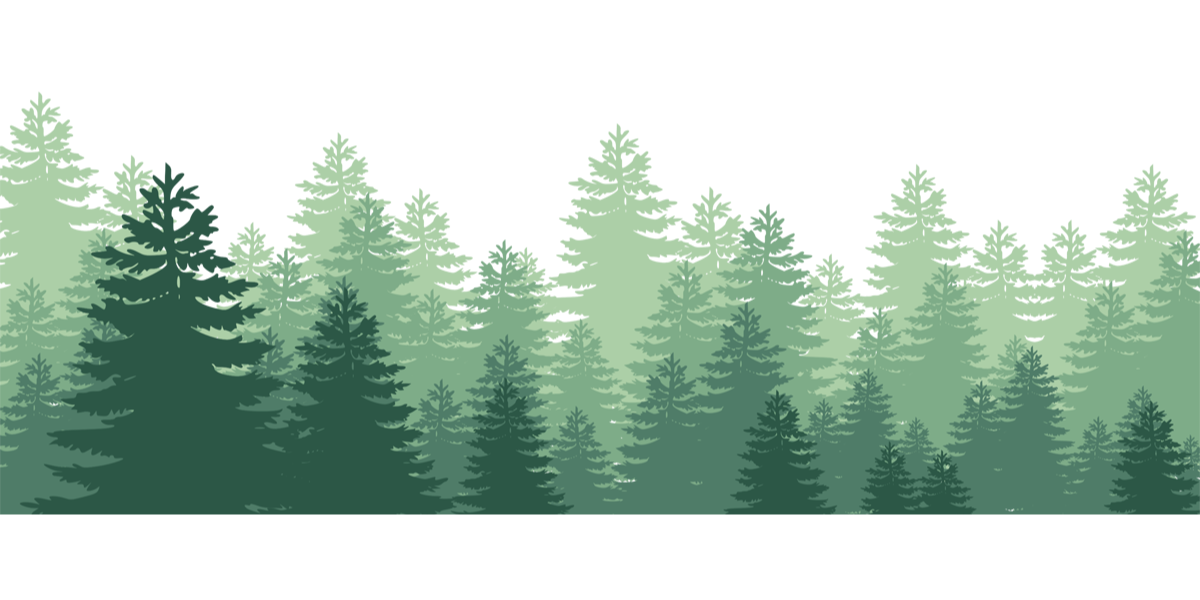
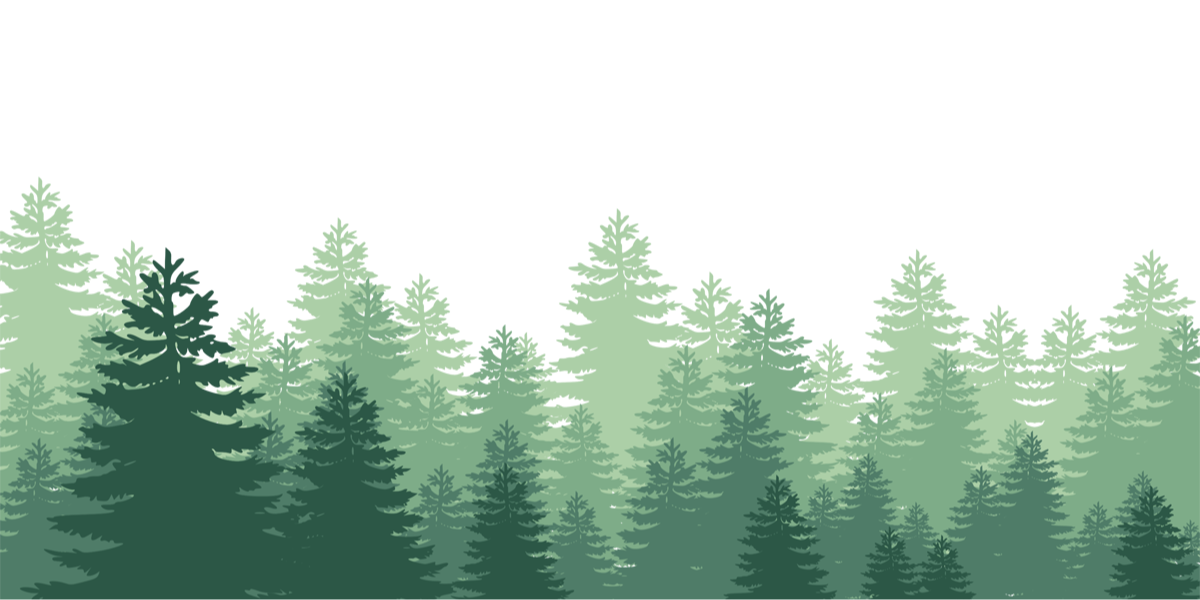
แก้ contace

diff --git a/css/contact.css b/css/contact.css
@@ -1,16 +1,13 @@
 
-  
-    body{
-      background-image:url(../image/pines.png);
-      background-position:bottom;
-      background-repeat: repeat-x;
-      
-    }
     .bottom-container{
       padding-top: 90px;
       padding-bottom: 500px;
       text-align: center;
       font-size: 60px;
+      background-image:url(../image/pinestree.PNG);
+      background-position: bottom;
+      background-repeat: no-repeat;
+      background-size: 100%;
     }
 
     .contact img{
@@ -36,10 +33,8 @@
 
     .contact {
       position: relative;
-      /* width: 95%;
-      padding-left: 2.5%;
-      padding-left: 2.5%; */
       display: inline-block;
+      width: 100%;
     }
       
     .contact-content {
@@ -55,14 +50,8 @@
       z-index: 1;
     }
 
-      
-      
       .contact:hover .contact-content {
         display: block;
-      }
-
-      .contact:visited .contact-content{
-
       }
 
       .inside-container{
@@ -76,13 +65,8 @@
         text-align: center;
         padding: 20px px 20px 2px;
         font-size: 20px;
-    
+        width: 15vw;
       }
-
-     
-
-
-
 
 /* reference */
     .button {

diff --git a/html/contact.html b/html/contact.html
@@ -144,8 +144,8 @@
 				<p>Student ID: 62130500103</p>
 				<p>Traning Room: 5</p>
 			</div>
-
 		</div>
+
 		<div class="contact">
 			<img src="../image/124.jpg" alt="contact-124" width="250" height="250"><br>
 			<h2>Natcha Phannoi</h2>
@@ -156,6 +156,7 @@
 
 			</div>
 		</div>
+		
 		<div class="contact">
 			<img src="../image/127.jpg" alt="contact-127" width="250" height="250"><br>
 			<h2>Noppawit Chowarun</h2>
